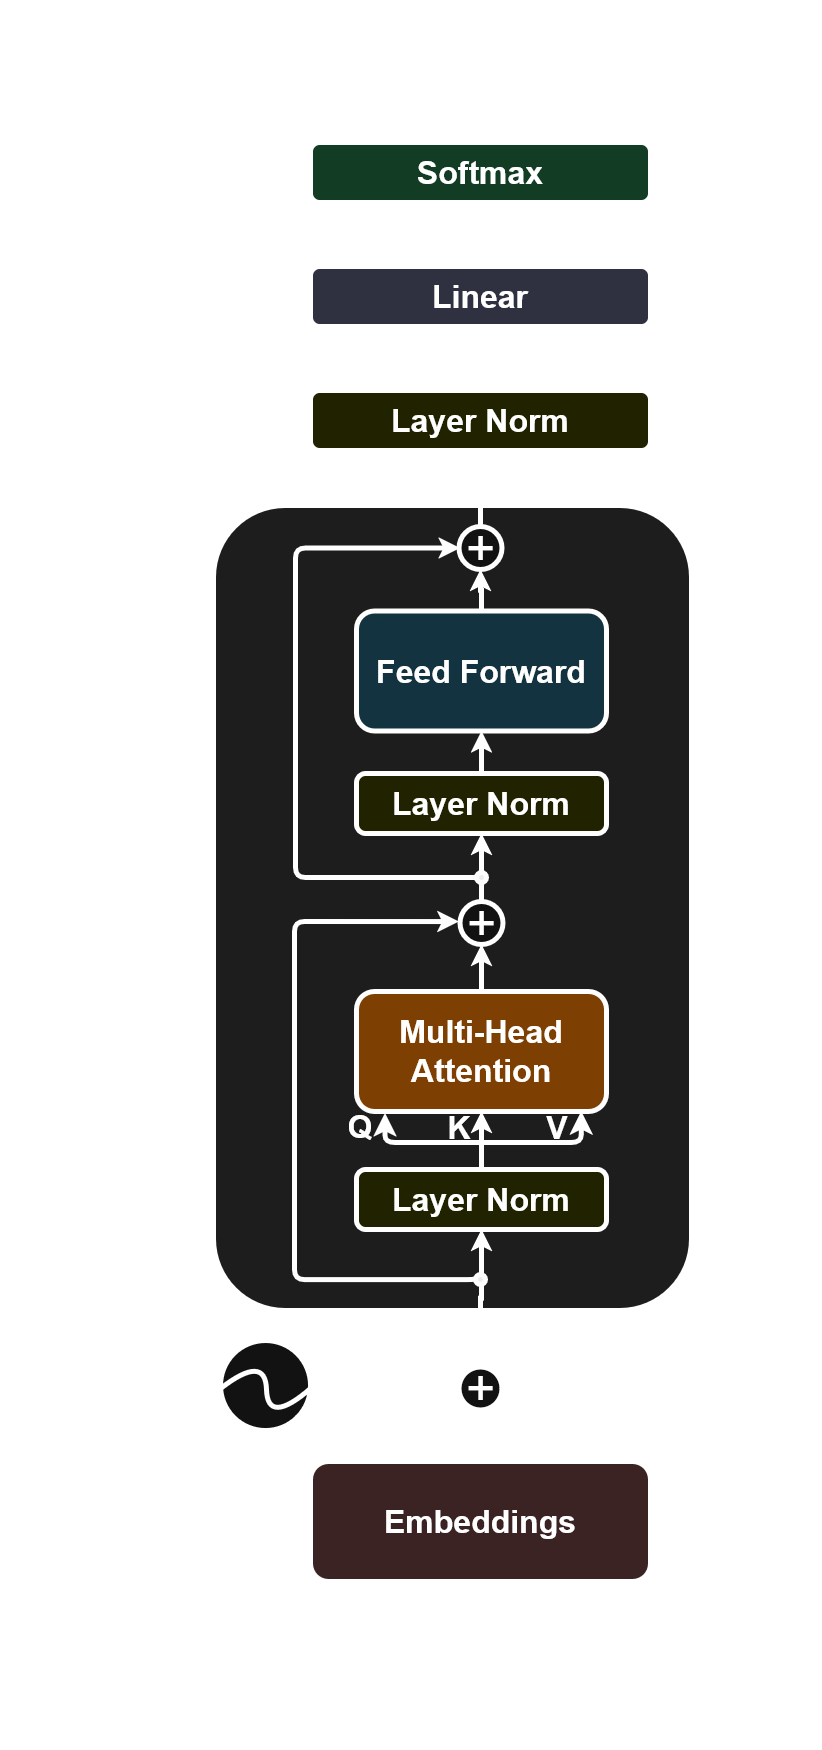
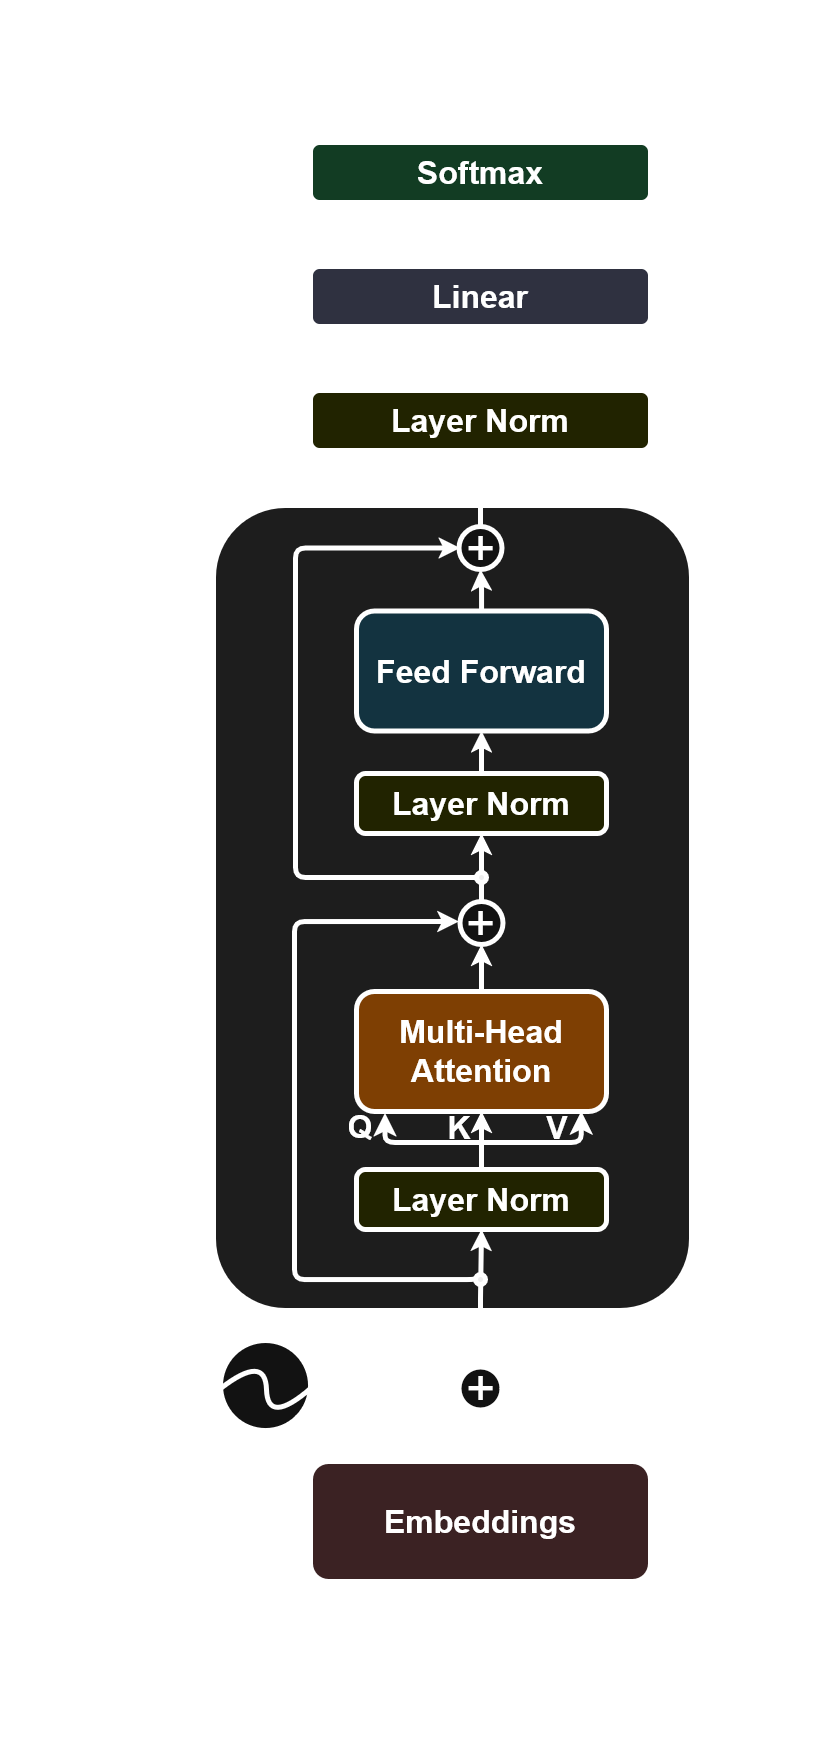
Small changes

diff --git a/README.md b/README.md
@@ -55,7 +55,7 @@ pip install "yetanothergpt[dev] @ git+https://github.com/RistoAle97/yet-another-
 <picture>
   <source media="(prefers-color-scheme: dark)" srcset="https://github.com/RistoAle97/yet-another-gpt/blob/main/assets/gpt_dark.png">
   <source media="(prefers-color-scheme: light)" srcset="https://github.com/RistoAle97/yet-another-gpt/blob/main/assets/gpt_light.png">
-  <img alt="GPT architecture" src="https://github.com/RistoAle97/yet-another-gpt/blob/main/assets/gpt_dark.png" height=500>
+  <img alt="GPT architecture" src="https://github.com/RistoAle97/yet-another-gpt/blob/main/assets/gpt_dark.png" height=500, width=350>
 </picture>
 </div>
 
